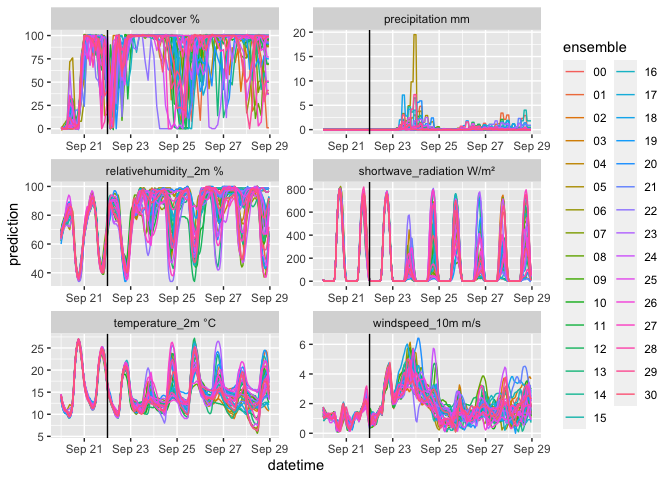
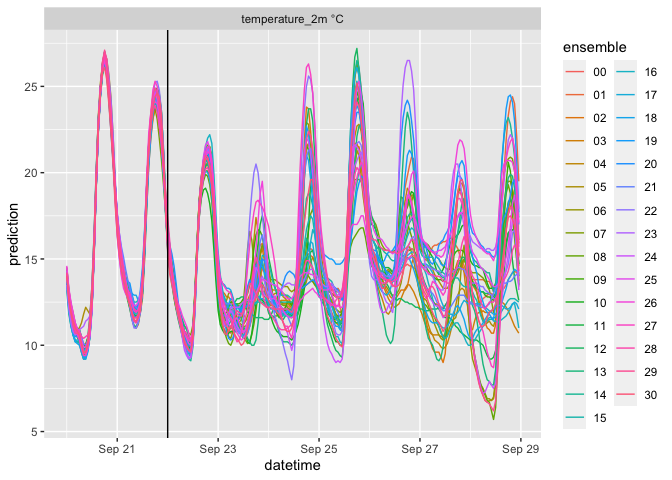
improving readme

diff --git a/README.md b/README.md
@@ -41,6 +41,17 @@ The package uses a long format standard with the following columns
 remotes::install_github("FLARE-forecast/RopenMeteo")
 ```
 
+    ## 
+    ## ── R CMD build ─────────────────────────────────────────────────────────────────
+    ##      checking for file ‘/private/var/folders/ms/kf9vk0w17p18pvs8k_23t5y80000gq/T/RtmpCs66zu/remotes102ec25b51553/FLARE-forecast-RopenMeteo-25e85b0/DESCRIPTION’ ...  ✔  checking for file ‘/private/var/folders/ms/kf9vk0w17p18pvs8k_23t5y80000gq/T/RtmpCs66zu/remotes102ec25b51553/FLARE-forecast-RopenMeteo-25e85b0/DESCRIPTION’
+    ##   ─  preparing ‘RopenMeteo’:
+    ##      checking DESCRIPTION meta-information ...  ✔  checking DESCRIPTION meta-information
+    ##   ─  checking for LF line-endings in source and make files and shell scripts
+    ##   ─  checking for empty or unneeded directories
+    ##   ─  building ‘RopenMeteo_0.0.0.9000.tar.gz’
+    ##      
+    ## 
+
 ``` r
 library(tidyverse)
 ```
@@ -97,6 +108,58 @@ df <- RopenMeteo::get_ensemble_forecast(
   forecast_days = 7,
   past_days = 2,
   model = "gfs_seamless",
+  variables = c("temperature_2m"))
+head(df)
+```
+
+    ## # A tibble: 6 × 7
+    ##   datetime            reference_datetime  model_id  ensemble variable prediction
+    ##   <dttm>              <dttm>              <chr>     <chr>    <chr>         <dbl>
+    ## 1 2023-09-20 00:00:00 2023-09-22 00:00:00 gfs_seam… 00       tempera…       14  
+    ## 2 2023-09-20 00:00:00 2023-09-22 00:00:00 gfs_seam… 01       tempera…       14.3
+    ## 3 2023-09-20 00:00:00 2023-09-22 00:00:00 gfs_seam… 02       tempera…       14.5
+    ## 4 2023-09-20 00:00:00 2023-09-22 00:00:00 gfs_seam… 03       tempera…       14.2
+    ## 5 2023-09-20 00:00:00 2023-09-22 00:00:00 gfs_seam… 04       tempera…       14  
+    ## 6 2023-09-20 00:00:00 2023-09-22 00:00:00 gfs_seam… 05       tempera…       14.2
+    ## # ℹ 1 more variable: unit <chr>
+
+``` r
+df |> 
+  mutate(variable = paste(variable, unit)) |> 
+  ggplot(aes(x = datetime, y = prediction, color = ensemble)) + 
+  geom_line() + 
+  geom_vline(aes(xintercept = reference_datetime)) + 
+  facet_wrap(~variable, scale = "free", ncol = 2)
+```
+
+![](README_files/figure-gfm/unnamed-chunk-6-1.png)<!-- -->
+
+Options for models and variables are at
+<https://open-meteo.com/en/docs/ensemble-api>
+
+Note that `ecmwf_ifs04` does not include solar radiation.
+
+List of global model ids:
+
+    icon_seamless, icon_global, gfs_seamless, gfs025, gfs05, ecmwf_ifs04, gem_global
+
+### Use with the General Lake Model
+
+We have included functions that allow the output to be used with the
+General Lake Model (\[<https://doi.org/10.5194/gmd-12-473-2019>\]).
+Since the open-meteo models do not include longwave radiation, the
+package provides a function to calculate it from the cloud cover and air
+temperature.
+
+GLM requires a set of variables that are provided
+
+``` r
+df <- RopenMeteo::get_ensemble_forecast(
+  latitude = 37.30,
+  longitude = -79.83,
+  forecast_days = 7,
+  past_days = 2,
+  model = "gfs_seamless",
   variables = c(
     "relativehumidity_2m",
     "precipitation",
@@ -127,24 +190,9 @@ df |>
   facet_wrap(~variable, scale = "free", ncol = 2)
 ```
 
-![](README_files/figure-gfm/unnamed-chunk-6-1.png)<!-- -->
+![](README_files/figure-gfm/unnamed-chunk-8-1.png)<!-- -->
 
-Options for models and variables are at
-<https://open-meteo.com/en/docs/ensemble-api>
-
-Note that `ecmwf_ifs04` does not include solar radiation.
-
-List of global model ids:
-
-    icon_seamless, icon_global, gfs_seamless, gfs025, gfs05, ecmwf_ifs04, gem_global
-
-### Use with the General Lake Model
-
-We have included functions that allow the output to be used with the
-General Lake Model (\[<https://doi.org/10.5194/gmd-12-473-2019>\]).
-Since the open-meteo models do not include longwave radiation, the
-package provides a function to calculate it from the cloud cover and air
-temperature.
+The following converts to GLM format
 
 ``` r
 path <- tempdir()
@@ -271,7 +319,7 @@ df |>
 
     ## Warning: Removed 168 rows containing missing values (`geom_line()`).
 
-![](README_files/figure-gfm/unnamed-chunk-11-1.png)<!-- -->
+![](README_files/figure-gfm/unnamed-chunk-13-1.png)<!-- -->
 
 ## Seasonal Forecasts
 
@@ -312,7 +360,7 @@ df |>
 
     ## Warning: Removed 2156 rows containing missing values (`geom_line()`).
 
-![](README_files/figure-gfm/unnamed-chunk-13-1.png)<!-- -->
+![](README_files/figure-gfm/unnamed-chunk-15-1.png)<!-- -->
 
 ## Climate Projections
 
@@ -365,4 +413,4 @@ df |>
     facet_wrap(~variable, scale = "free")
 ```
 
-![](README_files/figure-gfm/unnamed-chunk-16-1.png)<!-- -->
+![](README_files/figure-gfm/unnamed-chunk-18-1.png)<!-- -->
